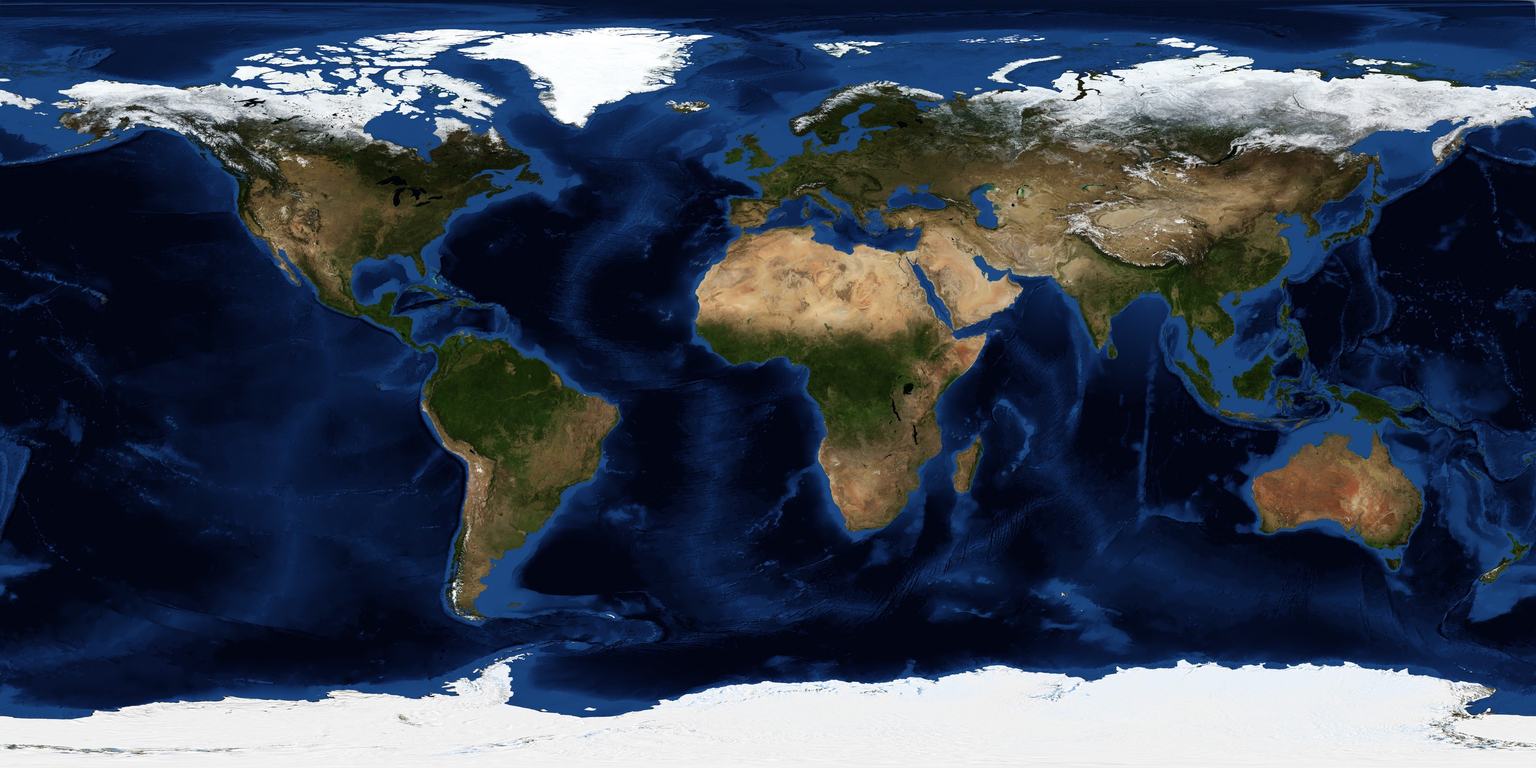
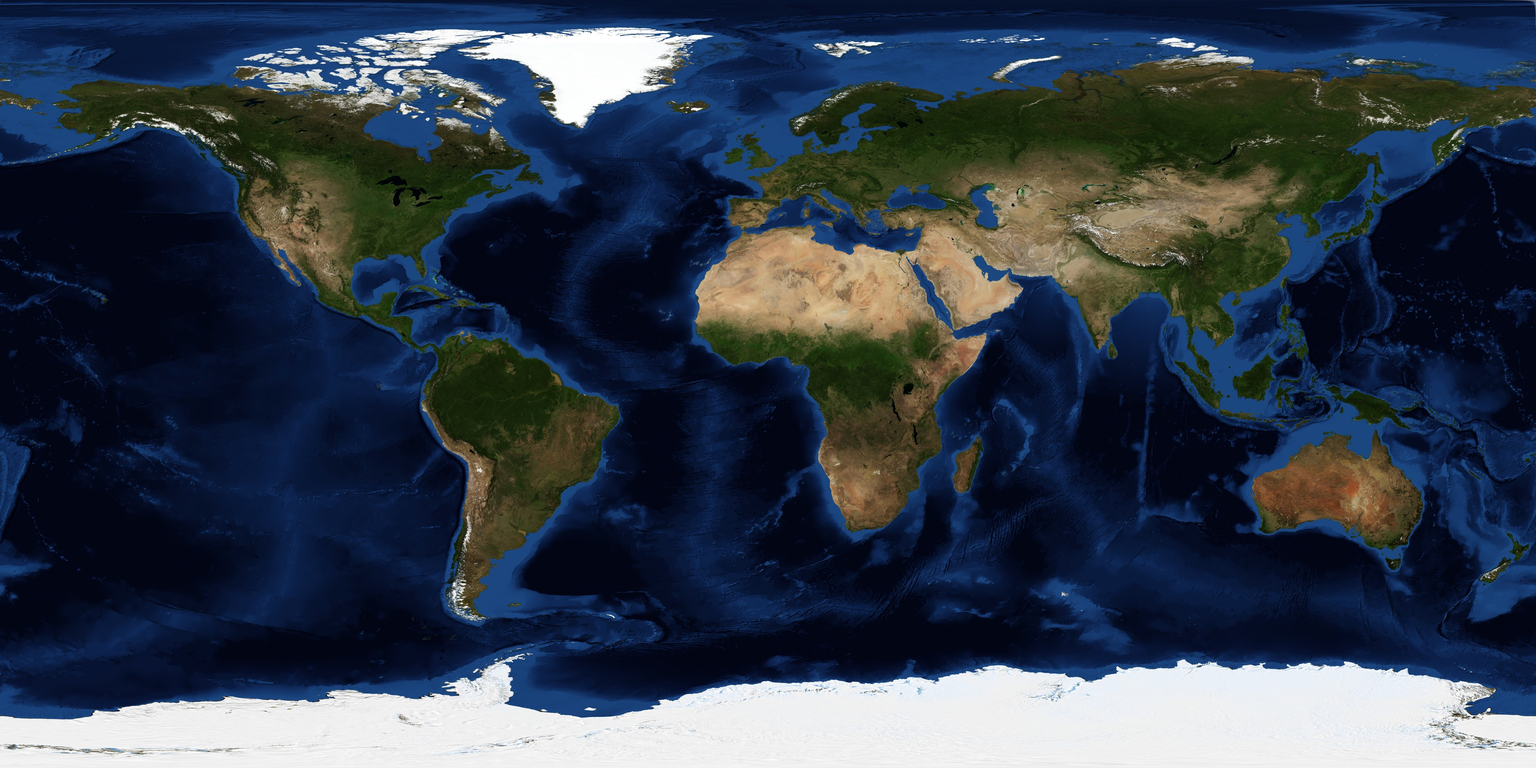
Globo: el fondo lejano, del mismo julio que las teselas (sin recuadro nevado en Siberia al moverlo)
Francisco: «cuando me muevo en el mapa cambia la zona de Rusia». dia.jpg venía de otra Blue Marble
(invierno, con nieve); donde una tesela de cerca aún no estaba cargada se veía ese fondo. dia.jpg y
luces.jpg se rehacen ahora con las propias teselas de julio.

Claude-Session: https://claude.ai/code/session_01JPTHaAJ66ttUdrgcLwMZzx

diff --git a/crates/panel/static/tierra/LEEME.md b/crates/panel/static/tierra/LEEME.md
@@ -26,3 +26,11 @@ juntas). Las corta `build/tierra.py` en CI (rama `tierra-*`) de las imágenes de
 tamaño completo: *Blue Marble Next Generation* de julio con relieve y fondo marino (21 600 ×
 10 800) y *Black Marble 2016* (13 500 × 6 750), ambas de dominio público. `t/tiles.json` dice de
 dónde salió cada una y su huella.
+
+## El globo entero, del mismo mes (16 Oct 2026)
+
+`dia.jpg` y `luces.jpg` (4096 × 2048) se rehicieron a partir de las propias teselas (la parte
+interior de cada una, sin la sangre, juntas y reducidas con Lanczos). Antes venían de otra copia
+de la *Blue Marble* con nieve en Siberia, y al mover el globo se veía un recuadro nevado donde una
+tesela de julio todavía no se había cargado. Ahora el globo lejano y el de cerca son la misma
+imagen de julio.
